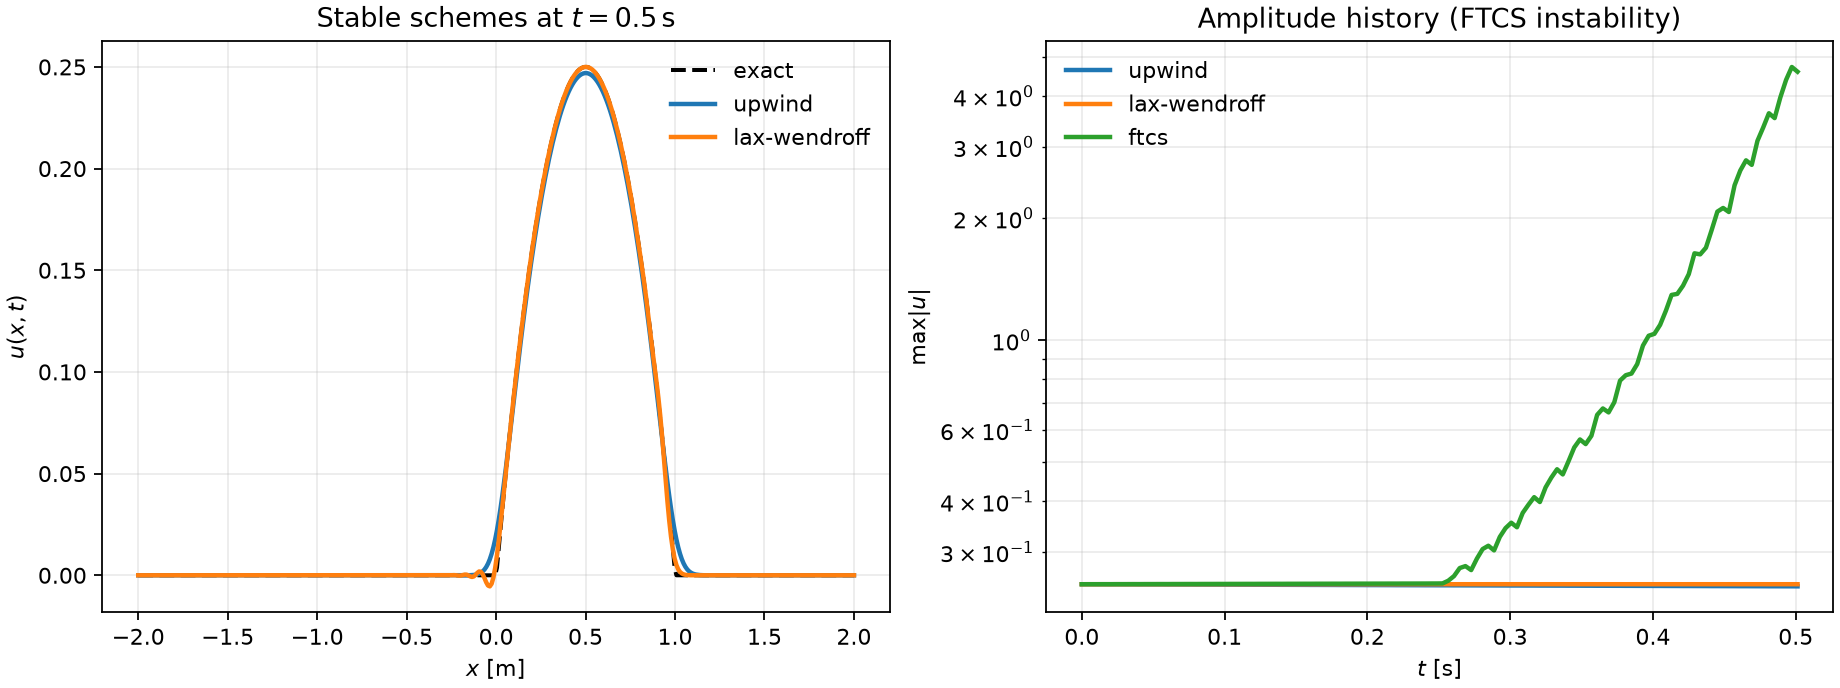
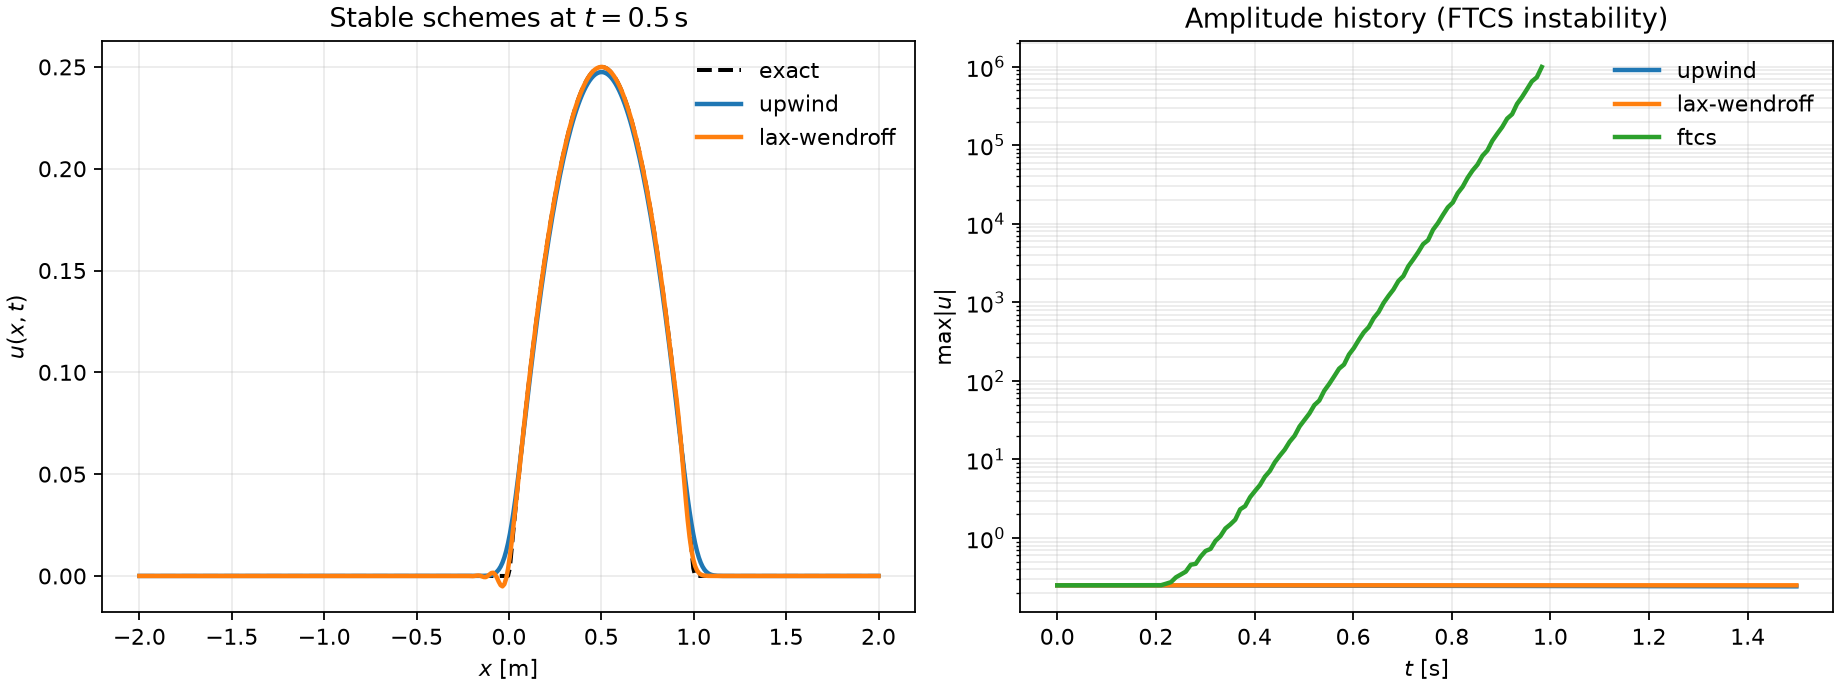
Polish portfolio demo: analysis package, stronger FTCS, demo script
Move post-processing into an importable analysis package, add
scripts/demo.sh, strengthen the FTCS instability panel, and document
measured results plus a suggested repository rename.

diff --git a/analysis/compare_schemes.py b/analysis/compare_schemes.py
@@ -4,34 +4,51 @@
 from __future__ import annotations
 
 import argparse
-import sys
 from pathlib import Path
 
 import matplotlib.pyplot as plt
 import numpy as np
 
-sys.path.insert(0, str(Path(__file__).resolve().parent))
-
-from io_util import load_snapshots, relative_l2_error, run_solver  # noqa: E402
+from analysis.io_util import load_snapshots, relative_l2_error, run_solver
 
 
 def max_abs_series(
     snapshots: list[tuple[float, np.ndarray, np.ndarray, np.ndarray]],
 ) -> tuple[np.ndarray, np.ndarray]:
     times = np.asarray([t for t, *_ in snapshots], dtype=float)
-    amps = np.asarray([np.max(np.abs(u_num)) for _, _, _, u_num in snapshots], dtype=float)
+    amps = np.asarray(
+        [float(np.nanmax(np.abs(u_num))) for _, _, _, u_num in snapshots],
+        dtype=float,
+    )
+    # Keep the plot readable once FTCS has clearly diverged.
+    amps = np.where(np.isfinite(amps), amps, np.nan)
     return times, amps
 
 
 def main() -> int:
     parser = argparse.ArgumentParser(description=__doc__)
     parser.add_argument("--n-points", type=int, default=400)
-    parser.add_argument("--cfl", type=float, default=0.4)
-    parser.add_argument("--final-time", type=float, default=0.5)
-    parser.add_argument("--profile-time", type=float, default=0.5)
+    parser.add_argument("--cfl", type=float, default=0.5)
+    parser.add_argument(
+        "--profile-time",
+        type=float,
+        default=0.5,
+        help="time used for the stable-scheme profile panel",
+    )
+    parser.add_argument(
+        "--ftcs-final-time",
+        type=float,
+        default=1.5,
+        help="longer horizon so FTCS amplitude growth is unmistakable",
+    )
     parser.add_argument("--c", type=float, default=1.0)
     parser.add_argument("--x-min", type=float, default=-2.0)
     parser.add_argument("--x-max", type=float, default=2.0)
+    parser.add_argument(
+        "--ic",
+        default="parabola",
+        help="compact parabola seeds high modes that expose FTCS instability",
+    )
     parser.add_argument(
         "--output",
         type=Path,
@@ -41,31 +58,32 @@ def main() -> int:
 
     dx = (args.x_max - args.x_min) / (args.n_points - 1)
     dt = args.cfl * dx / args.c
-    schemes = ("upwind", "lax-wendroff", "ftcs")
+    # Sample amplitude often enough for a smooth curve, not every micro-step.
+    amp_every = max(dt, 0.01)
 
     profile_data: dict[str, tuple[np.ndarray, np.ndarray, np.ndarray]] = {}
     amp_data: dict[str, tuple[np.ndarray, np.ndarray]] = {}
 
-    for scheme in schemes:
+    for scheme in ("upwind", "lax-wendroff"):
         out = Path("data") / f"scheme_{scheme}.csv"
         run_solver(
             output=out,
             scheme=scheme,
+            ic=args.ic,
             n_points=args.n_points,
             c=args.c,
             x_min=args.x_min,
             x_max=args.x_max,
             dt=dt,
-            final_time=args.final_time,
-            snapshot_every=dt,
+            final_time=args.ftcs_final_time,
+            snapshot_every=amp_every,
         )
         snaps = load_snapshots(out)
         amp_data[scheme] = max_abs_series(snaps)
 
-        # Prefer the requested profile time; fall back to the last available frame.
         chosen = snaps[-1]
         for t, x, u_ex, u_num in snaps:
-            if abs(t - args.profile_time) <= 0.5 * dt:
+            if abs(t - args.profile_time) <= 0.5 * amp_every:
                 chosen = (t, x, u_ex, u_num)
                 break
         t, x, u_ex, u_num = chosen
@@ -73,17 +91,35 @@ def main() -> int:
         print(f"{scheme:12s}  t={t:.3f}  ε₂={err:.4e}  max|u|={np.max(np.abs(u_num)):.3e}")
         profile_data[scheme] = (x, u_ex, u_num)
 
+    ftcs_out = Path("data") / "scheme_ftcs.csv"
+    run_solver(
+        output=ftcs_out,
+        scheme="ftcs",
+        ic=args.ic,
+        n_points=args.n_points,
+        c=args.c,
+        x_min=args.x_min,
+        x_max=args.x_max,
+        dt=dt,
+        final_time=args.ftcs_final_time,
+        snapshot_every=amp_every,
+    )
+    ftcs_snaps = load_snapshots(ftcs_out)
+    amp_data["ftcs"] = max_abs_series(ftcs_snaps)
+    t_f, _, u_ex_f, u_num_f = ftcs_snaps[-1]
+    print(
+        f"{'ftcs':12s}  t={t_f:.3f}  ε₂={relative_l2_error(u_ex_f, u_num_f):.4e}  "
+        f"max|u|={np.nanmax(np.abs(u_num_f)):.3e}"
+    )
+
     fig, axes = plt.subplots(1, 2, figsize=(11.5, 4.3), constrained_layout=True)
 
     ax = axes[0]
     x_ref, u_ex, _ = profile_data["upwind"]
     ax.plot(x_ref, u_ex, "k--", lw=1.8, label="exact")
-    for scheme, style in (
-        ("upwind", "-"),
-        ("lax-wendroff", "-"),
-    ):
+    for scheme in ("upwind", "lax-wendroff"):
         x, _, u_num = profile_data[scheme]
-        ax.plot(x, u_num, style, lw=2.0, label=scheme)
+        ax.plot(x, u_num, lw=2.0, label=scheme)
     ax.set_xlabel(r"$x$ [m]")
     ax.set_ylabel(r"$u(x,t)$")
     ax.set_title(rf"Stable schemes at $t={args.profile_time:g}\,\mathrm{{s}}$")
@@ -91,8 +127,12 @@ def main() -> int:
     ax.grid(True, alpha=0.25)
 
     ax = axes[1]
-    for scheme in schemes:
+    for scheme in ("upwind", "lax-wendroff", "ftcs"):
         times, amps = amp_data[scheme]
+        # Truncate FTCS once it is clearly unstable to keep the axis useful.
+        if scheme == "ftcs":
+            mask = np.isfinite(amps) & (amps < 1e6)
+            times, amps = times[mask], amps[mask]
         ax.semilogy(times, np.maximum(amps, 1e-16), lw=2.0, label=scheme)
     ax.set_xlabel(r"$t$ [s]")
     ax.set_ylabel(r"$\max |u|$")

diff --git a/analysis/convergence.py b/analysis/convergence.py
@@ -4,15 +4,12 @@
 from __future__ import annotations
 
 import argparse
-import sys
 from pathlib import Path
 
 import matplotlib.pyplot as plt
 import numpy as np
 
-sys.path.insert(0, str(Path(__file__).resolve().parent))
-
-from io_util import load_snapshots, relative_l2_error, run_solver  # noqa: E402
+from analysis.io_util import load_snapshots, relative_l2_error, run_solver
 
 
 def observed_order(dx: np.ndarray, err: np.ndarray) -> float:
@@ -76,15 +73,12 @@ def main() -> int:
     fig, ax = plt.subplots(figsize=(6.2, 4.4), constrained_layout=True)
     ax.loglog(dx_arr, err_arr, "o-", lw=2.0, ms=7, label=r"upwind $\varepsilon_2$")
 
-    # Reference slope-1 line anchored at the coarsest point.
     ref = err_arr[0] * (dx_arr / dx_arr[0])
     ax.loglog(dx_arr, ref, "--", color="0.45", lw=1.6, label=r"slope $= 1$")
 
     ax.set_xlabel(r"$\Delta x$ [m]")
     ax.set_ylabel(r"$\varepsilon_2(t_{\mathrm{final}})$")
-    ax.set_title(
-        rf"Upwind convergence (Gaussian IC, CFL $= {args.cfl:g}$)"
-    )
+    ax.set_title(rf"Upwind convergence (Gaussian IC, CFL $= {args.cfl:g}$)")
     ax.grid(True, which="both", alpha=0.25)
     ax.legend(frameon=False)
     ax.text(

diff --git a/analysis/animate.py b/analysis/animate.py
@@ -4,15 +4,12 @@
 from __future__ import annotations
 
 import argparse
-import sys
 from pathlib import Path
 
 import matplotlib.pyplot as plt
 from matplotlib.animation import FuncAnimation, PillowWriter
 
-sys.path.insert(0, str(Path(__file__).resolve().parent))
-
-from io_util import load_snapshots, run_solver  # noqa: E402
+from analysis.io_util import load_snapshots, run_solver
 
 
 def main() -> int:

diff --git a/analysis/plot_results.py b/analysis/plot_results.py
@@ -4,14 +4,11 @@
 from __future__ import annotations
 
 import argparse
-import sys
 from pathlib import Path
 
-sys.path.insert(0, str(Path(__file__).resolve().parent))
-
-from io_util import load_snapshots, relative_l2_error  # noqa: E402
-
 import matplotlib.pyplot as plt
+
+from analysis.io_util import load_snapshots, relative_l2_error
 
 
 def plot_profiles(

diff --git a/analysis/__init__.py b/analysis/__init__.py
@@ -1,0 +1,9 @@
+"""Post-processing and analysis utilities for the 1D advection case study."""
+
+__all__ = [
+    "animate",
+    "compare_schemes",
+    "convergence",
+    "io_util",
+    "plot_results",
+]

diff --git a/README.md b/README.md
@@ -32,8 +32,9 @@ Advection is a minimal hyperbolic PDE that still exposes the design choices that
 | --- | --- |
 | `include/advection.h`, `src/advection.c` | Problem API: configuration, schemes, exact field, CSV export |
 | `src/main.c` | CLI driver (`--scheme`, `--n-points`, `--dt`, snapshots, …) |
-| `python/` | Profiles, convergence study, scheme comparison, animation |
+| `analysis/` | Importable Python package: profiles, convergence, schemes, animation |
 | `tests/test_solver.c` | Lightweight solver checks (`make test`) |
+| `scripts/demo.sh` | One-command end-to-end demo |
 | `docs/methodology.md` | Governing equation, discretizations, and error metric |
 
 Build orchestration lives in the `Makefile`. Simulation data is written under `data/`; figures under `docs/assets/`.
@@ -53,7 +54,21 @@ Build orchestration lives in the `Makefile`. Simulation data is written under `d
 
 The continuum solution is the rigid translate $u(x,t) = u_0(x - c t)$. With CFL number $\nu = c\Delta t/\Delta x < 1$, upwind remains stable but introduces visible numerical diffusion — intentional here, so the numeric vs exact panel is informative.
 
+## Results (default artifacts)
+
+- Default upwind run: $\varepsilon_2(t=0.60) \approx 2.24\times 10^{-2}$ (numerical diffusion vs the exact translate).
+- Fixed-CFL convergence with a smooth Gaussian IC: observed order $\approx 0.87$ (target design order $1$).
+- Scheme comparison: Lax–Wendroff stays closer to the exact pulse than upwind; FTCS amplitude explodes to $\sim 10^{10}$ by $t\approx 1.5\,\mathrm{s}$.
+
 ## Quick start
+
+```bash
+# full demo: deps + tests + all figures
+./scripts/demo.sh
+# or: make demo
+```
+
+Individual targets:
 
 ```bash
 python3 -m pip install -r requirements.txt
@@ -72,12 +87,12 @@ CLI examples:
   --snapshot-every 0.02 --final-time 0.6 --output data/frames.csv
 ```
 
-Analysis scripts:
+Analysis modules (run as a package — no `sys.path` hacks):
 
 ```bash
-python3 python/convergence.py
-python3 python/compare_schemes.py
-python3 python/animate.py
+python3 -m analysis.convergence
+python3 -m analysis.compare_schemes
+python3 -m analysis.animate
 ```
 
 ## Analysis artifacts
@@ -99,8 +114,12 @@ python3 python/animate.py
 
 ## Continuous integration
 
-GitHub Actions (`.github/workflows/ci.yml`) builds the solver, runs `make test`, regenerates the default figure, and executes the convergence / scheme / animation scripts on every push and pull request.
+GitHub Actions (`.github/workflows/ci.yml`) builds the solver, runs `make test`, regenerates the default figure, and executes the convergence / scheme / animation modules on every push and pull request.
 
 ## Documentation
 
 - [Methodology](docs/methodology.md) — PDE, schemes, stability, convergence, and error metric with rendered LaTeX
+
+## Suggested repository rename
+
+The GitHub remote may still use the original course name (`JuanPrada_Ejercicio29`). For portfolio visibility, rename it in GitHub to something descriptive such as **`1d-linear-advection`** (Settings → General → Repository name), then update the `url` field in [`CITATION.cff`](CITATION.cff).

diff --git a/docs/methodology.md b/docs/methodology.md
@@ -84,7 +84,7 @@ u_i^{n}
 \frac{\nu}{2}\left(u_{i+1}^{n} - u_{i-1}^{n}\right).
 $$
 
-For pure advection this method is unconditionally unstable: high-frequency modes grow for any $\nu > 0$. It is included as a negative control in the scheme comparison.
+For pure advection this method is unconditionally unstable: high-frequency modes grow for any $\nu > 0$. It is included as a negative control in the scheme comparison, integrated to a longer final time so the amplitude history makes the blow-up unmistakable.
 
 ### Lax–Wendroff
 
